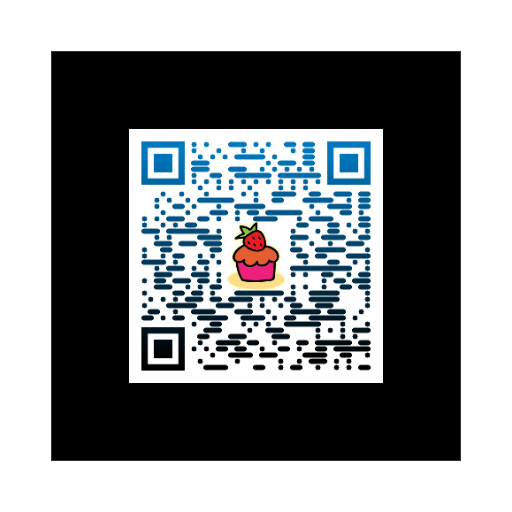
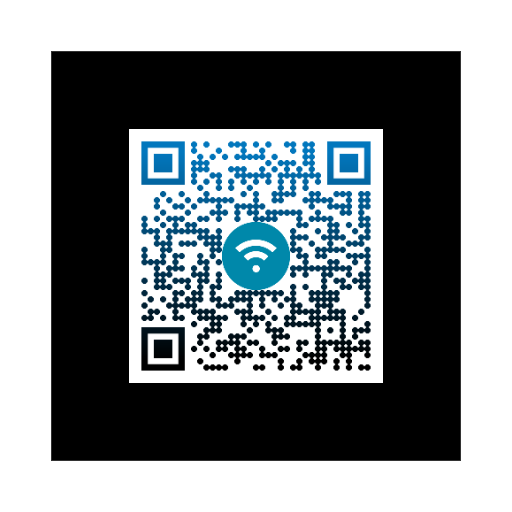
111

Changed region(s): [[0.2812, 0.2812, 0.75, 0.75]]

diff --git a/Jessica.html b/Jessica.html
@@ -68,7 +68,7 @@
         <button class="say-hi-button">SAY HI!</button>
       </div>
     <a-scene embedded arjs='sourceType: webcam; debugUIEnabled: false;'>
-        <a-marker markerhandler type='pattern' url='patts/pattern-qr-code.patt' >
+        <a-marker markerhandler type='pattern' url='patts/pattern-qr-code2.patt' >
             <a-entity id='helltext' position='0 1 -1' rotation="270 0 0" scale="0.1 0.1 0.1" text="font:roboto;align: center;width: 5;color: green; value:Jessica,Happy Birthday!!" ></a-entity>
              
             <a-entity position='0 1 -2' rotation="270 0 0" gltf-model="url(cake/scene.gltf)"></a-entity>
